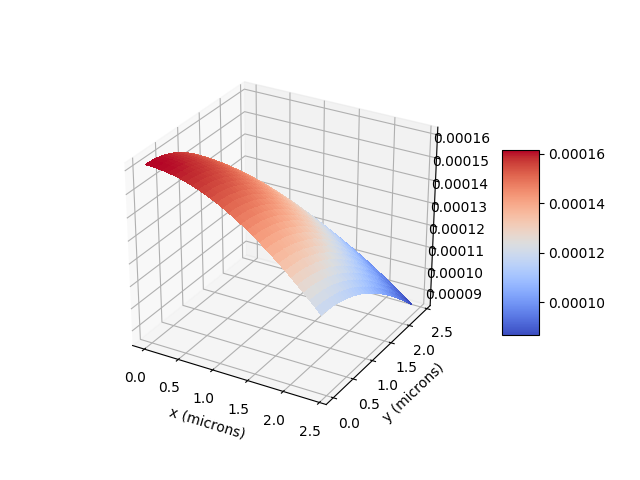
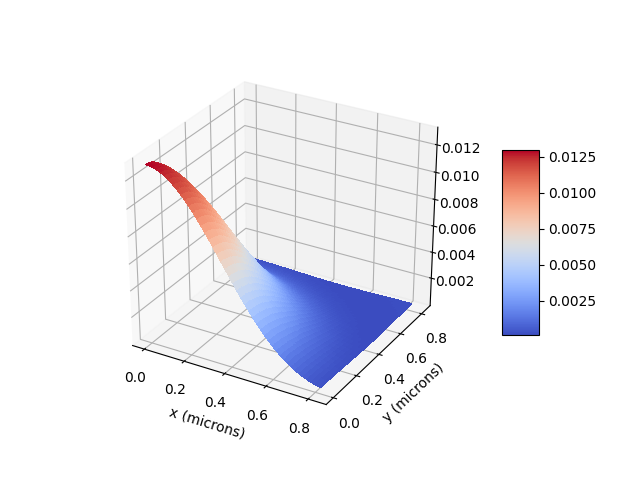
latest

diff --git a/scripts/src/spl_coeff_solver.py b/scripts/src/spl_coeff_solver.py
@@ -6,28 +6,30 @@ from responses import get_responses_for_spot
 from scipy.interpolate import RegularGridInterpolator
 from utils import read_spot_sources, get_pixel_values
 import matplotlib.pyplot as plt
+from textwrap import dedent
 
+import os
 import copy
 
 PIXEL_SIZE = 9.0 # microns
 
-MAX_ITER = 100
-NUM_SPOTS = 51
+MAX_ITER = 4000
+NUM_SPOTS = 2000
 
-wavelength = 0.6
+wavelength = 0.6 / PIXEL_SIZE
 focal_ratio = 11.0
 s_x = s_y = 1.0 / PIXEL_SIZE
 subpixel_res_x = 3
 subpixel_res_y = 3
 map_res_x = 6000
-map_res_y = 6000
-max_wavenumbner_x = 6
-max_wavenumber_y = 6
+map_res_y = 6000 
+max_wavenumbner_x = 6 * PIXEL_SIZE 
+max_wavenumber_y = 6 * PIXEL_SIZE
 
 dx = 1.0 / subpixel_res_x
 dy = 1.0 / subpixel_res_y
 
-
+SS_CONVERGENCE_INTERVAL = 1e-20
 
 class SubpixelCoeffSolver:
     """
@@ -39,8 +41,8 @@ class SubpixelCoeffSolver:
         - variance_y: standard deviation of the y coordinates of the spot centers
         - subpixel_res_x: number of subpixels to split each pixel along the x axis
         - subpixel_res_y: number of subpixels to split each pixel along the y axis
-        - map_res_x: resolution of the ifft along the x axis
-        - map_res_y: resolution of the ifft along the y axis
+        - map_res_x: resolution of the fft along the x axis
+        - map_res_y: resolution of the fft along the y axis
         - max_x_wavenumber: boundary of the fourier transform along x
         - max_y_wavenumber: boundary of the fourier transform along y
         - x_0: x coordinate of the spot center
@@ -53,8 +55,17 @@ class SubpixelCoeffSolver:
         - pixel_height: height of pixel
     """
     def __init__(self, wavelength, focal_ratio, variance, subpixel_res, 
-        map_res, max_wavenumber,spots, all_pixels, all_pixel_stddevs):
+        map_res, max_wavenumber):
         c_src = PSFDllLoader("./libpsf.so")
+        print(dedent(f"""\
+        Building PSF Model with the following parameters:
+        Focal Ratio:                {focal_ratio},
+        Centroid Stddev (x,y):      {variance[0], variance[1]},
+        Subpixel Resolution (x,y):  {subpixel_res[0], subpixel_res[1]},
+        Map Resolution (x,y):       {map_res[0], map_res[1]},
+        Max Wavenumbers (x,y):      {max_wavenumber[0], max_wavenumber[1]} 
+        """))
+        print(">>>> Loaded C library <<<<")
         c_src.execute(
             wavelength, focal_ratio, 
             variance[0], variance[1],
@@ -62,89 +73,108 @@ class SubpixelCoeffSolver:
             map_res[0], map_res[1],
             max_wavenumber[0], max_wavenumber[1]
         )
-        self.all_pixels = all_pixels
-        self.all_pixel_stddevs = all_pixel_stddevs
-        self.spots = spots
-        self.intensities = RegularGridInterpolator((c_src.x_vals / PIXEL_SIZE, c_src.y_vals / PIXEL_SIZE), c_src.I_vals)
+        print(">>>> Built PSF Model <<<<")
+
+        self.num_spots = 0
+
+        self.intensities = RegularGridInterpolator((c_src.x_vals, c_src.y_vals), c_src.I_vals)
         
-        self.response_matrix, self.intensity_matrix, self.response_indices = self._get_intensities_and_responses()
+        self.response_matrix, self.intensity_matrix = None,None 
+        self.stddevs = None
+        self.response_indices = numpy.array([0])
         self.rotate_vector = numpy.full((1,subpixel_res_x * subpixel_res_y),1)
         u, s, self.vh = numpy.linalg.svd(self.rotate_vector, full_matrices = True)
         # print(self.intensities((1,1)))
+        self.all_spots = None
     
-    def _get_intensities_and_responses(self):
-        all_responses = numpy.empty((81 * self.spots.size))
-        all_intensities = numpy.empty((all_responses.size, subpixel_res_x * subpixel_res_y))
-        response_indices = numpy.empty((self.spots.size,), dtype=numpy.int32)
+    def add_intensities_and_responses_for_image(self, spots, all_pixels, all_pixel_stddevs):
+        image_responses = numpy.empty((81 * spots.size))
+        image_intensities = numpy.empty((image_responses.size, subpixel_res_x * subpixel_res_y))
+        image_response_indices = numpy.empty((spots.size,), dtype=numpy.int32)
+        stddevs = numpy.empty_like(image_responses)
         idx = 0
+        last_idx = 0 if self.response_indices is None else self.response_indices[-1]
+        for spot_number, spot in enumerate(spots):
+            responses = get_responses_for_spot(spot, all_pixels, all_pixel_stddevs)
 
-        for spot_number, spot in enumerate(self.spots):
-            responses = get_responses_for_spot(spot, self.all_pixels, self.all_pixel_stddevs)
+            stddev = numpy.sqrt(numpy.square(responses.pixel_stddevs / 2) + responses.median_stddev**2)
 
-            stddev = numpy.sqrt(numpy.square(responses.pixel_stddevs) + responses.median_stddev**2)
-
-            all_responses[idx:idx + responses.data.size] = responses.data / 1
+            image_responses[idx:idx + responses.data.size] = responses.data / stddev
+            stddevs[idx:idx + responses.data.size] = stddev
 
             for pixel_idx, pixel in enumerate(responses.pixel_coords):
-                all_intensities[idx + pixel_idx, :] = self._get_pixel_intensities(pixel)
+                image_intensities[idx + pixel_idx, :] = self._get_pixel_intensities(pixel)
             
-            all_intensities[idx:idx + responses.data.size, :] =all_intensities[idx:idx + responses.data.size, :] /stddev[:,None]
-            response_indices[spot_number] = idx
+            image_intensities[idx:idx + responses.data.size, :] = image_intensities[idx:idx + responses.data.size, :] / stddev[:,None]
             idx += responses.data.size
+            image_response_indices[spot_number] = last_idx + idx
 
-        return all_responses[:idx], all_intensities[:idx, :], response_indices
-    
-    def _plot_for_spot(self,spot_number, scaled_response_matrix, x):
+        image_responses = image_responses[:idx]
+        image_intensities = image_intensities[:idx]
+        stddevs = stddevs[:idx]
+        self.response_matrix = image_responses if self.response_matrix is None else numpy.concatenate((self.response_matrix, image_responses))
+        self.intensity_matrix = image_intensities if self.intensity_matrix is None else numpy.concatenate((self.intensity_matrix, image_intensities))
+        self.response_indices = image_response_indices if self.response_indices is None else numpy.concatenate((self.response_indices, image_response_indices))
+        self.stddevs = stddevs if self.stddevs is None else numpy.concatenate((self.stddevs, stddevs))
+        self.num_spots += spots.size
+        self.spots = spots
+            
+    def _plot_for_spot(self,spot_number, scaled_response_matrix, amp,x, spl_map):
         start_index= self.response_indices[spot_number]
-        if spot_number == self.spots.size - 1:
+        if spot_number == self.num_spots - 1:
             stop_index = scaled_response_matrix.size
         else:
             stop_index=self.response_indices[spot_number + 1]
         spot_responses = scaled_response_matrix[start_index:stop_index]
         spot_intensities = self.intensity_matrix[start_index:stop_index, :]
-        #x = numpy.arange(int(x) - 6, int(x) + 6 + 1)
+
+        idx = numpy.argmax(spot_responses)
+        x = numpy.arange(int(x) - 4, int(x) + 4 + 1)
         #plt.scatter(x,spot_responses)
-        plt.plot(spot_responses, spot_intensities.dot(self.rotate_vector[0]), 'o')
+        plt.yscale('log')
+        #plt.plot(x, spot_intensities.dot(self.rotate_vector[0]), 'o')
+        #plt.plot(x, spot_intensities.dot(spl_map),'o')
+        plt.errorbar(x, spot_responses,yerr=1.0/amp, label='both limits (default)')
 
         plt.savefig(f'plots/spot{spot_number}')
         plt.clf()
     
 
     def _get_scaled_responses(self, spl_map=None, spot_number=0):
-        amplitudes = numpy.empty((self.spots.size,))
+        amplitudes = numpy.empty((self.num_spots,))
+        print("NUM SPOTS",self.num_spots)
 
         scaled_response_matrix = copy.deepcopy(self.response_matrix)
-
+        scaled_stddevs = copy.deepcopy(self.stddevs)
         if spl_map is None:
             spl_map = numpy.full((subpixel_res_x * subpixel_res_y,), 1)
 
-        for spot_number in range(self.spots.size):
+        for spot_number in range(self.num_spots):
             start_index= self.response_indices[spot_number]
-            if spot_number == self.spots.size - 1:
+            if spot_number == self.num_spots - 1:
                 stop_index = scaled_response_matrix.size
             else:
                 stop_index=self.response_indices[spot_number + 1]
             
             spot_responses = scaled_response_matrix[start_index:stop_index]
             spot_intensities = self.intensity_matrix[start_index:stop_index, :]
+            spot_stddevs = scaled_stddevs[start_index:stop_index]
             amplitude = numpy.linalg.lstsq(
                 spot_intensities.dot(spl_map).reshape(spot_responses.size,1), 
                 spot_responses, 
                 rcond=None
             )
-
             amplitude = amplitude[0][0]
             amplitudes[spot_number] = amplitude
 
             spot_responses /= amplitude
+            spot_stddevs /=amplitude
 
-            #print(f"SPOT: {spot_number}\tAmplitude: {amplitude}")
-        return scaled_response_matrix, amplitudes
+        #print(amplitudes)
+        return scaled_response_matrix, amplitudes, scaled_stddevs
     
     def _get_spl_map(self, scaled_responses):
-        #print("ROT", self.rotate_vector)
         rotated_spl_map = numpy.linalg.lstsq(self.intensity_matrix.dot(self.vh[:,1:]), scaled_responses - self.intensity_matrix.dot(self.rotate_vector[0]), rcond=None)
-        #print(rotated_spl_map[0])
         spl_map = self.rotate_vector + self.vh[:,1:].dot(rotated_spl_map[0])
         return spl_map[0]
 
@@ -160,10 +190,8 @@ class SubpixelCoeffSolver:
         x_coords, y_coords = abs(numpy.arange(start_x, end_x, dx)), abs(numpy.arange(start_y, end_y, dy))
         x_coords = x_coords
         y_coords = y_coords
-        #print(x_coords.size, y_coords.size)
 
         spl_x, spl_y = numpy.meshgrid(x_coords,y_coords)
-        #print(spl_x, spl_y)
 
         return self.intensities((spl_x, spl_y)).flatten()
 
@@ -171,29 +199,65 @@ class SubpixelCoeffSolver:
         last_spl_map = None
         scaled_responses = None
         last_amplitudes=None
-        for i in range(MAX_ITER):
-            scaled_responses, amplitudes = self._get_scaled_responses(last_spl_map)
+        i = 0
+        while i < 3000:
+            scaled_responses, amplitudes,stddev_s = self._get_scaled_responses(last_spl_map)
             
-            spl_map = self._get_spl_map(scaled_responses)
-            #print("SPL:", spl_map)
+            spl_map = self._get_spl_map(scaled_responses)            
 
             if last_amplitudes is not None:
-                print("DELTA A / A", (amplitudes - last_amplitudes) / amplitudes)
-                print("DELTA SPL / SPL", (spl_map - last_spl_map) / spl_map)
+                ss_spl = numpy.square((spl_map - last_spl_map) / spl_map).sum()
+                ss_amp = numpy.square((amplitudes - last_amplitudes) / amplitudes).sum()
+
+                print("-------- SS SPL MAP --------")
+                print(ss_spl)
+                print("-------- SS SPL MAP --------")
+                print("                            ")
+                print("--------- SS AMP -----------")
+                print(ss_amp)
+                print("--------- SS AMP -----------")
+                print("                            ")
+
+                if ss_spl < 1e-10:
+                    print("NUM ITERS:",i)
+                    print("-------- SPL MAP ----------")
+                    print(spl_map)
+                    print("-------- SPL MAP ----------")
+  
+                    for i in range(10):
+                        self._plot_for_spot(spot_number=i, scaled_response_matrix=scaled_responses, amp=amplitudes[i], x=self.spots[i][0], spl_map=spl_map)
+                    break
             last_amplitudes = amplitudes
             last_spl_map = spl_map
+            i+=1
         print(last_spl_map)
+        
         #for i in range(NUM_SPOTS):
             #self._plot_for_spot(spot_number=i, scaled_response_matrix=scaled_responses, x=self.spots[i][0])
 
-spot_sources = read_spot_sources("/home/epsilon/Documents/photometry/images/projected/calibrated_nontilted_scan_projected_0068.fistar", 4,5)[:NUM_SPOTS]
-pixel_values, pixel_stddevs = get_pixel_values("/home/epsilon/Documents/photometry/images/cal/calibrated_nontilted_scan_0068.fits.fz")
+#spot_sources = read_spot_sources("/home/epsilon/Documents/photometry/images/projected/calibrated_nontilted_scan_projected_0093.fistar", 4,5)[:NUM_SPOTS]
+#pixel_values, pixel_stddevs = get_pixel_values("/home/epsilon/Documents/photometry/images/cal/fits/calibrated_nontilted_scan_0093.fits.fz")
 
 solver = SubpixelCoeffSolver(
-    wavelength, focal_ratio, (s_x, s_y), (subpixel_res_x,subpixel_res_y), (map_res_x, map_res_y), (max_wavenumbner_x,max_wavenumber_y),
-    spot_sources, pixel_values, pixel_stddevs
+    wavelength, focal_ratio, (s_x, s_y), (subpixel_res_x,subpixel_res_y), (map_res_x, map_res_y), (max_wavenumbner_x,max_wavenumber_y)
 )
 
+projection_dir = '/home/epsilon/Documents/photometry/images/projected/'
+
+for dir, subdir, files in os.walk(projection_dir):
+    for filename in files[:1]:
+        if filename.endswith('.fistar'):
+            spot_sources = read_spot_sources(projection_dir + filename, 4,5)[:2000]
+            number = filename[36:40]
+            fits_file = "calibrated_nontilted_scan_" + number + ".fits.fz"
+            pixel_values, pixel_stddevs = get_pixel_values("/home/epsilon/Documents/photometry/images/cal/fits/" + fits_file)
+            solver.add_intensities_and_responses_for_image(spot_sources, pixel_values, pixel_stddevs)
+            print("PIXEL STDEV", pixel_stddevs)
+            print("PIXEL VAL", pixel_values)
+            print(f"Added spots for {filename}")
+
+print("intensity shape:", solver.intensity_matrix.shape)
+print("response shape:", solver.response_matrix.shape)
 solver.solve()
 
 

diff --git a/scripts/src/img_gen.py b/scripts/src/img_gen.py
@@ -7,15 +7,17 @@ from matplotlib.ticker import LinearLocator, FormatStrFormatter
 import math
 import sys
 
-wavelength = 0.6
+PIXEL_SIZE = 9.0
+
+wavelength = 0.6 / PIXEL_SIZE
 focal_ratio = 11.0
-s_x = s_y = 1.0
+s_x = s_y = 1.0 / PIXEL_SIZE
 subpixel_res_x = 10
 subpixel_res_y = 10
-map_res_x = 6000
+map_res_x = 6000 
 map_res_y = 6000
-max_wavenumbner_x = 6
-max_wavenumber_y = 6
+max_wavenumbner_x = 6 * PIXEL_SIZE
+max_wavenumber_y = 6 * PIXEL_SIZE
 
 fig = plt.figure()
 
@@ -33,7 +35,7 @@ Z = c_src.I_vals
 ax.set_xlabel('x (microns)')
 ax.set_ylabel('y (microns)')
 
-surf = ax.plot_surface(X[:30, :30],Y[:30, :30],Z[:30, :30], cmap=cm.coolwarm,
+surf = ax.plot_surface(X[:90, :90],Y[:90, :90],Z[:90, :90], cmap=cm.coolwarm,
                        linewidth=0, antialiased=False)
 
 fig.colorbar(surf, shrink=0.5, aspect=5)

diff --git a/scripts/src/responses.py b/scripts/src/responses.py
@@ -57,8 +57,8 @@ def get_center_row(source, radius):
     return indices
 
 def get_responses_for_spot(spot, all_pixel_values, all_pixel_stddevs):
-    matched_indices = get_surrounding_pixels(spot, all_pixel_values.shape)
-    #matched_indices = get_center_row(spot, 6)
+    #matched_indices = get_surrounding_pixels(spot, all_pixel_values.shape)
+    matched_indices = get_center_row(spot, 4)
 
     raw_responses = all_pixel_values[matched_indices['y'], matched_indices['x']]
     pixel_stddevs = all_pixel_stddevs[matched_indices['y'], matched_indices['x']]
